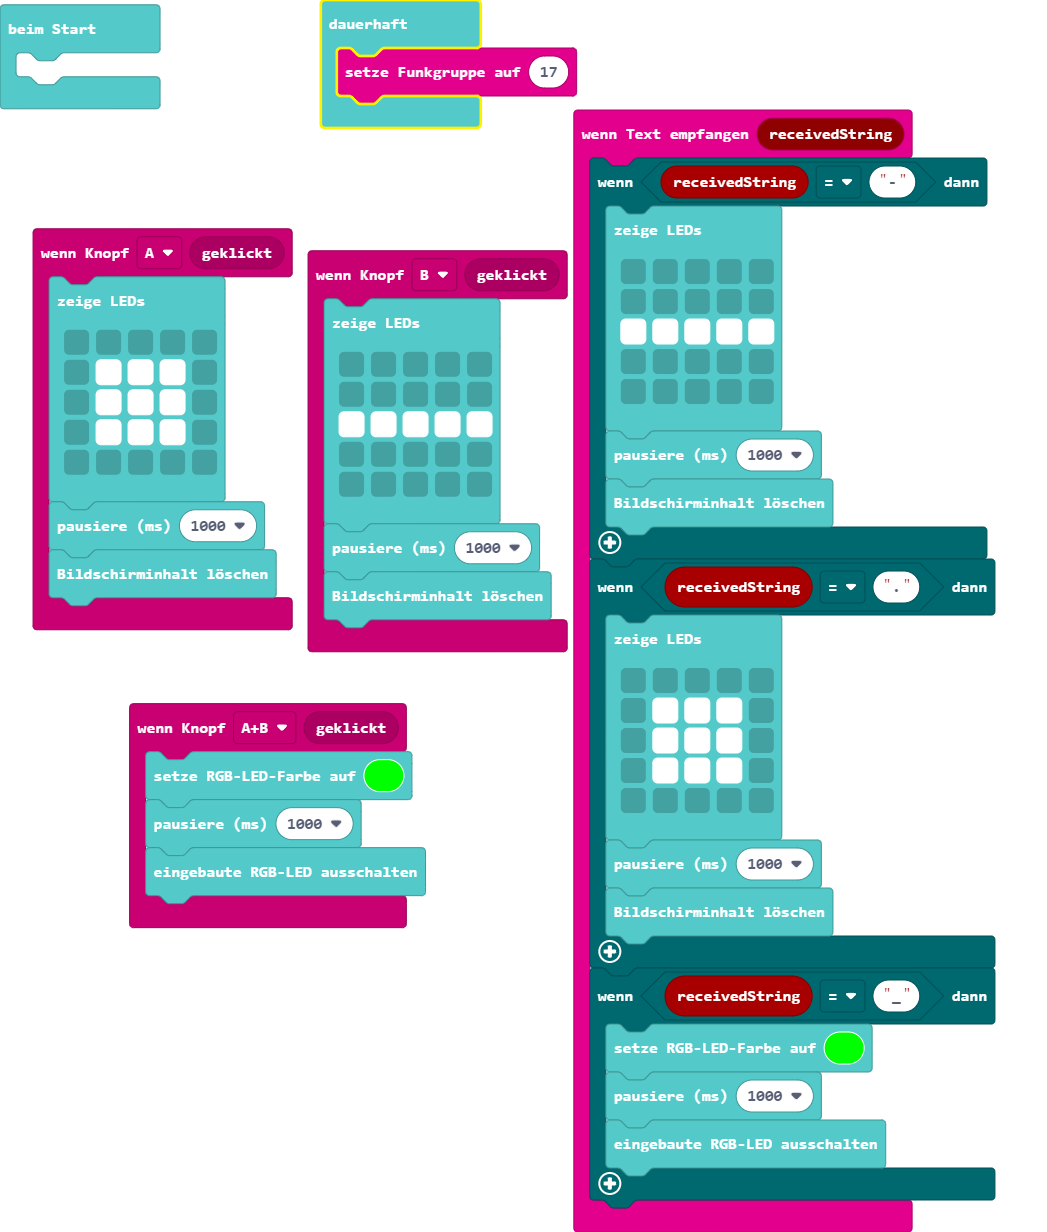
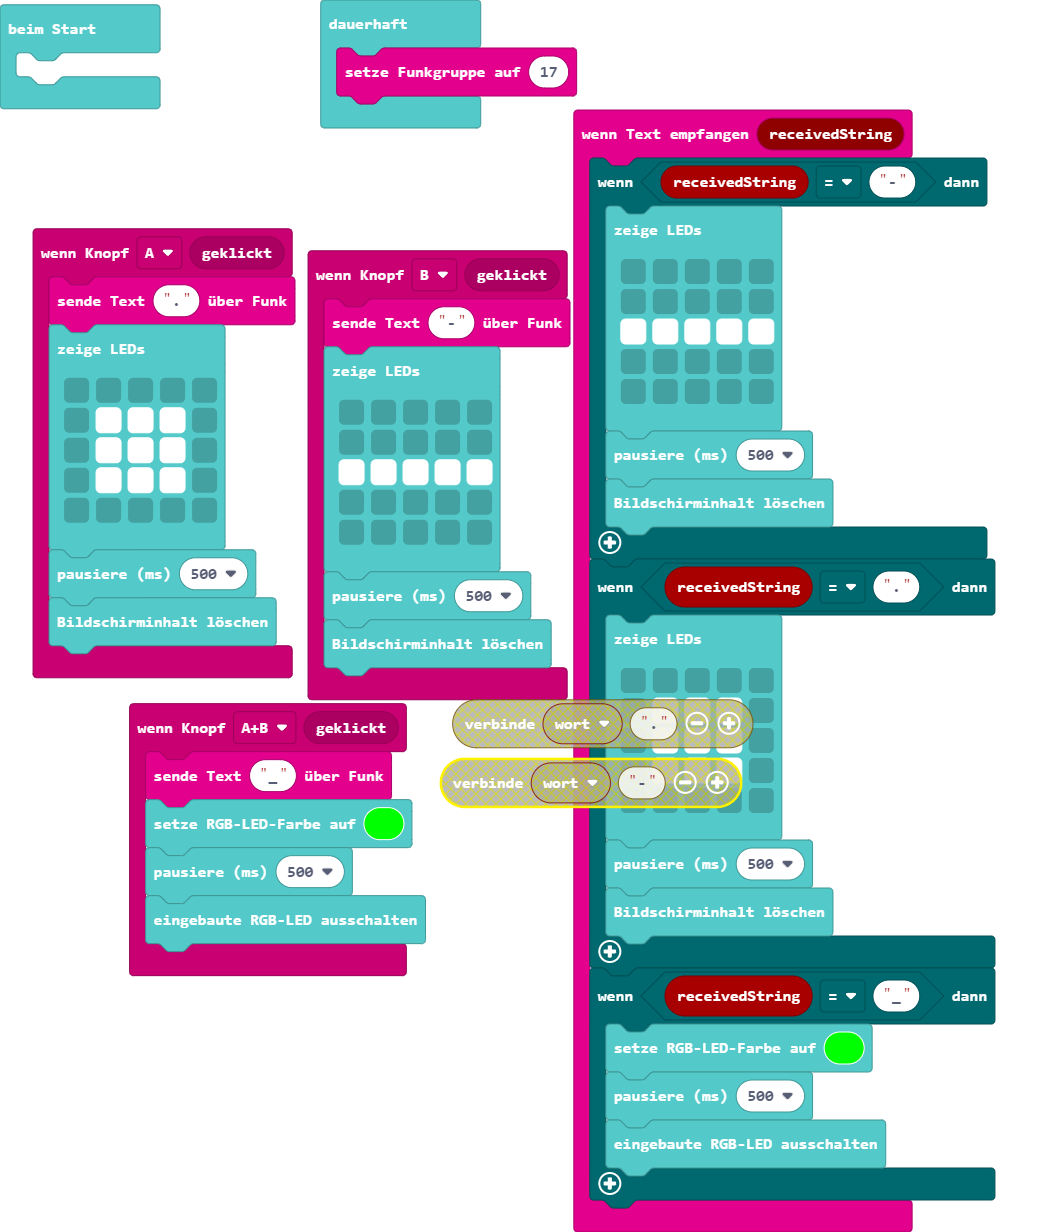
Aktualisiere main.blocks, main.ts

diff --git a/main.ts b/main.ts
@@ -1,4 +1,5 @@
 input.onButtonEvent(Button.A, input.buttonEventClick(), function () {
+    radio.sendString(".")
     basic.showLeds(`
         . . . . .
         . # # # .
@@ -6,15 +7,17 @@ input.onButtonEvent(Button.A, input.buttonEventClick(), function () {
         . # # # .
         . . . . .
         `)
-    basic.pause(1000)
+    basic.pause(500)
     basic.clearScreen()
 })
 input.onButtonEvent(Button.AB, input.buttonEventClick(), function () {
+    radio.sendString("_")
     basic.setLedColor(0x00ff00)
-    basic.pause(1000)
+    basic.pause(500)
     basic.turnRgbLedOff()
 })
 input.onButtonEvent(Button.B, input.buttonEventClick(), function () {
+    radio.sendString("-")
     basic.showLeds(`
         . . . . .
         . . . . .
@@ -22,7 +25,7 @@ input.onButtonEvent(Button.B, input.buttonEventClick(), function () {
         . . . . .
         . . . . .
         `)
-    basic.pause(1000)
+    basic.pause(500)
     basic.clearScreen()
 })
 radio.onReceivedString(function (receivedString) {
@@ -34,7 +37,7 @@ radio.onReceivedString(function (receivedString) {
             . . . . .
             . . . . .
             `)
-        basic.pause(1000)
+        basic.pause(500)
         basic.clearScreen()
     }
     if (receivedString == ".") {
@@ -45,12 +48,12 @@ radio.onReceivedString(function (receivedString) {
             . # # # .
             . . . . .
             `)
-        basic.pause(1000)
+        basic.pause(500)
         basic.clearScreen()
     }
     if (receivedString == "_") {
         basic.setLedColor(0x00ff00)
-        basic.pause(1000)
+        basic.pause(500)
         basic.turnRgbLedOff()
     }
 })
